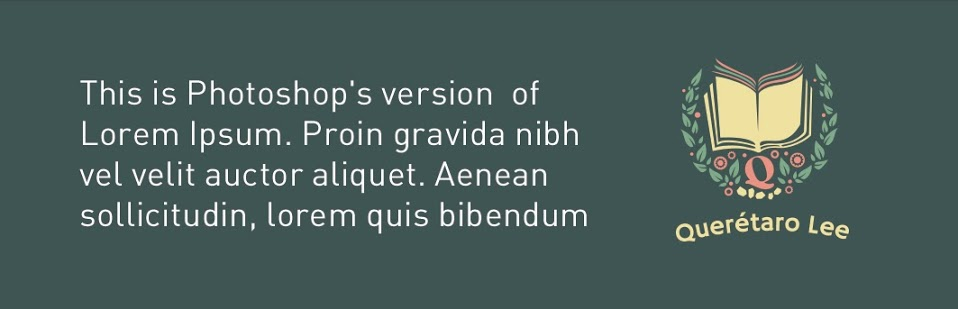
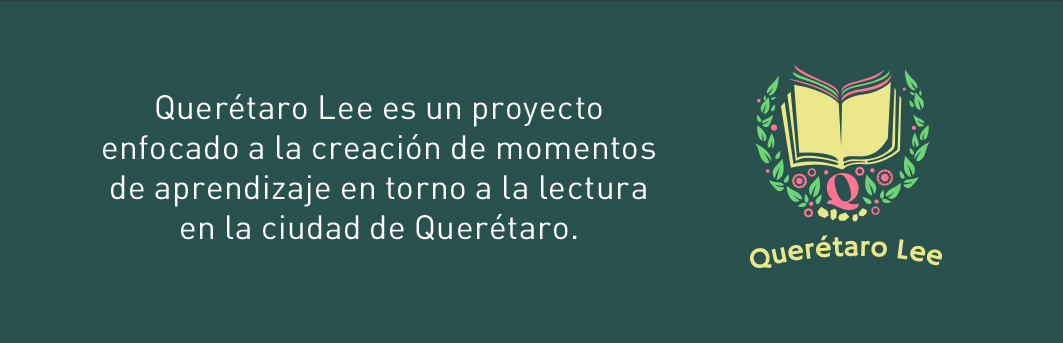
politicas y terminos

Changed region(s): [[0.0605, 0.233, 0.6357, 0.7573], [0.6962, 0.1748, 0.9081, 0.8155]]

diff --git a/QueretaroLee/templates/main/qr.html b/QueretaroLee/templates/main/qr.html
@@ -36,11 +36,12 @@
 
                 </span>
                 <p class="center ral">http://qrolee.com/qro_lee/book/{{ code }}</p>
+                <p class="center"><b>Código :</b> {{ code }}</p>
                 <a href="/qro_lee/qr_to_pdf/{{ code }}" target="_blank" class="view-pdf spot center">Imprimir</a>
             </div>
             <div class="legend center qr-content">
-                    <p style="width: 200px;" class="grid-4 no-margin fleft">Este contrato describe los términos y condiciones (los "Términos y Condiciones")
-                        aplicables al uso de los servicios ofrecidos por Faktor T México</p>
+                    <p style="width: 200px;text-align: center;" class="grid-4 no-margin fleft">Querétaro Lee es un proyecto enfocado a la
+                        creación de momentos de aprendizaje en torno a la lectura en la ciudad de Querétaro.</p>
 
                 <a class="grid-1 omega logo" href="/">
                     <span></span>

diff --git a/QueretaroLee/templates/main/qr_pdf.html b/QueretaroLee/templates/main/qr_pdf.html
@@ -55,6 +55,7 @@
         <img width="2" height="200" src="{{ site_url }}static/img/border.jpg" alt=""/>
     </div>
     <p id="p_content">{{ site_url }}qro_lee/book/{{ qr }}</p>
+    <p id="p_content_2" style="margin-top: 30px;"><b>c&oacute;digo:</b>{{ qr }} </p>
     <div id="footer_content">
         <img width="262" src="{{ site_url }}static/img/down.jpg" alt=""/>
     </div>

diff --git a/QueretaroLee/static/style/theme.css b/QueretaroLee/static/style/theme.css
@@ -3865,7 +3865,7 @@ textarea{
 
     }
 .qr-div .legend{
-    height: 100px;
+    height: 80px;
     background: #3e4f4d;
 }
     .qr-div .legend p{
